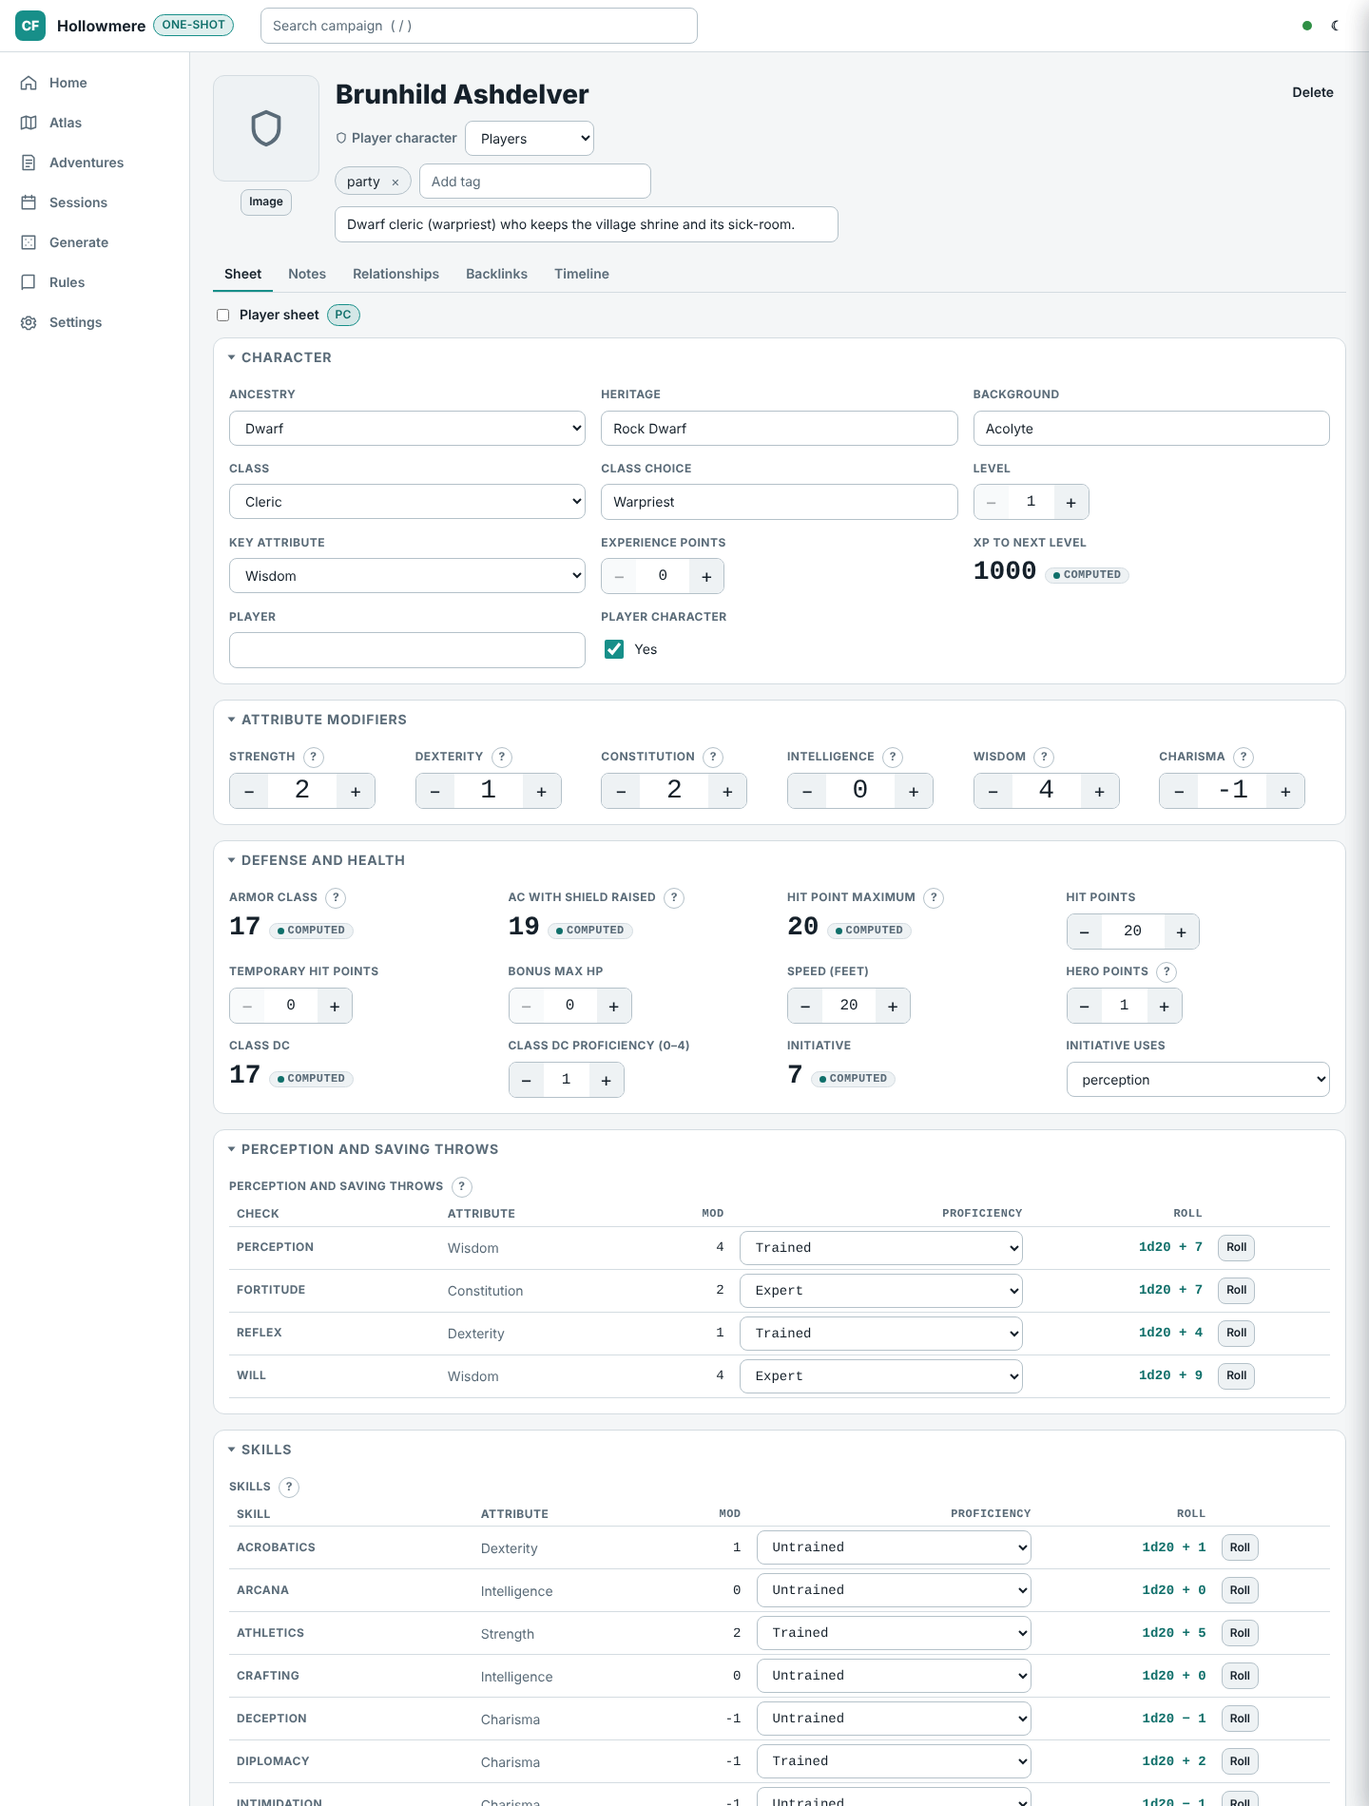
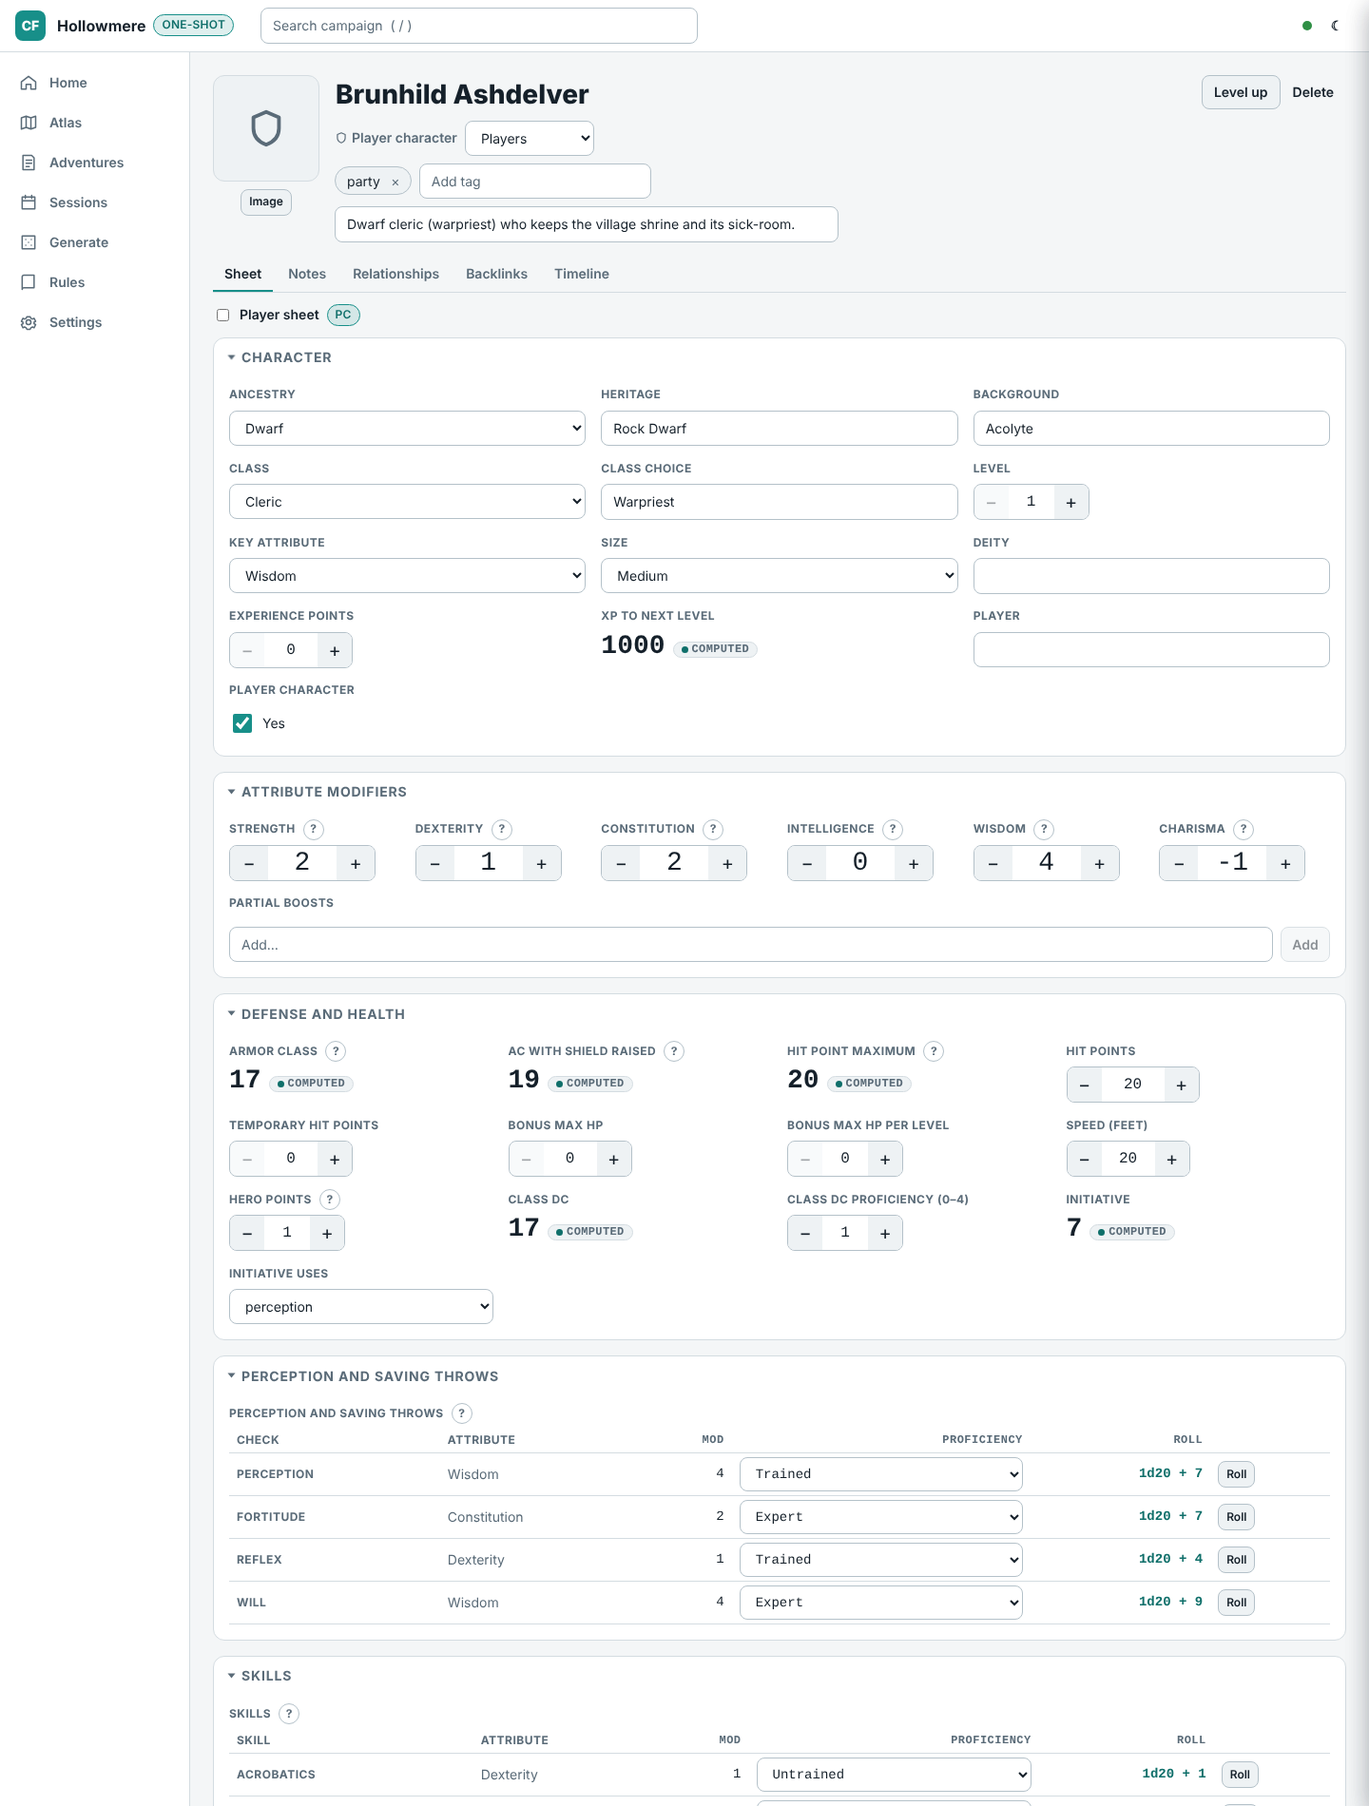
Publish the ORC character builder: demo draft, e2e, screenshot and feature page
Claude-Session: https://claude.ai/code/session_01PjoAoT19ZxbEizz2Vq94tE

diff --git a/apps/web/e2e/orc-builder.spec.ts b/apps/web/e2e/orc-builder.spec.ts
@@ -1,0 +1,164 @@
+/**
+ * The remaster (ORC) character builder end to end in the Hollowmere demo: the
+ * demo's half-built dwarf cleric is listed; a new human fighter is built from
+ * the Atlas PCs tab (heritage, ancestry boosts, background, key attribute,
+ * four free boosts, skills and languages, 1st-level feats, a shopping list,
+ * a name), created, read on the sheet (every number computed), then levelled
+ * up once (a class feat and a skill feat; Hit Points follow).
+ * `BUILDER_SHOTS=<dir>` keeps a screenshot of every step for review.
+ */
+import { mkdirSync } from "node:fs";
+import { expect, test, type Locator, type Page } from "@playwright/test";
+
+const SHOTS = process.env.BUILDER_SHOTS;
+async function shot(page: Page, name: string) {
+  if (!SHOTS) return;
+  mkdirSync(SHOTS, { recursive: true });
+  await page.screenshot({ path: `${SHOTS}/orc-${name}.png`, fullPage: true });
+}
+
+/** Pick an option of a choice (its card's or row's radio or checkbox). */
+async function pick(page: Page, path: string, id: string) {
+  const option = page.getByTestId(`opt:${path}:${id}`);
+  const input = option.locator("input");
+  if ((await input.count()) > 0) await input.check();
+  else await option.click();
+  await expect(option).toHaveClass(/is-on/);
+}
+
+/** Pick an option of a choice, filtering it by name first when it is a long list. */
+async function pickListed(page: Page, path: string, id: string, filter: string) {
+  const search = page.getByTestId(`choice:${path}`).locator("> .cb-list input[type=search]");
+  if ((await search.count()) > 0) await search.fill(filter);
+  await pick(page, path, id);
+}
+
+async function next(page: Page, stepId: string) {
+  await page.getByTestId("builder-next").click();
+  await expect(page.locator(".cb__main")).toHaveAttribute("data-step", stepId);
+}
+
+const step = (page: Page, id: string): Locator => page.getByTestId(`step-${id}`);
+
+test("build a remaster character in the Hollowmere demo, create it and level it up", async ({ page }) => {
+  test.setTimeout(180_000);
+  const errors: string[] = [];
+  page.on("pageerror", (e) => errors.push(e.message));
+  await page.setViewportSize({ width: 1440, height: 1000 });
+
+  await page.goto("/");
+  await page.getByTestId("load-demo-pf2e").click();
+  await expect(page).toHaveURL(/\/c\/[0-9A-Z]{26}\/home$/, { timeout: 60_000 });
+  const base = page.url().replace(/\/home$/, "");
+
+  // 1. the PCs tab lists the demo's unfinished dwarf cleric; build a new character
+  await page.getByRole("navigation", { name: "Campaign" }).getByRole("link", { name: "Atlas", exact: true }).click();
+  await page.getByRole("tab", { name: /^PCs/ }).click();
+  await expect(page.getByTestId("character-drafts")).toContainText("Maren Ashdown");
+  await page.getByTestId("build-character").click();
+  await expect(page.getByTestId("character-builder")).toBeVisible();
+  await expect(page.getByTestId("builder-title")).toHaveText("Build a character");
+
+  // 2. a Skilled Human (Medicine), the ancestry's free boosts to Strength and Constitution
+  await pick(page, "ancestry", "human");
+  await pick(page, "ancestry/heritage", "skilled-human");
+  await pick(page, "ancestry/heritage/any-skill", "medicine");
+  await pick(page, "ancestry/boosts", "standard");
+  await pick(page, "ancestry/boosts/free", "strength");
+  await pick(page, "ancestry/boosts/free", "constitution");
+  await expect(step(page, "ancestry")).toHaveAttribute("data-status", "ok");
+  await shot(page, "1-ancestry");
+
+  // 3. the Warrior: Strength (of Constitution or Strength) and a free Dexterity
+  await next(page, "background");
+  await pick(page, "background", "warrior");
+  await pick(page, "background/boost", "strength");
+  // the background cannot boost Strength twice
+  await expect(page.getByTestId("opt:background/free:strength")).toHaveClass(/is-off/);
+  await pick(page, "background/free", "dexterity");
+
+  // 4. a fighter: Strength key, Athletics
+  await next(page, "class");
+  await pick(page, "class", "fighter");
+  await pick(page, "class/key", "strength");
+  await pick(page, "class/skill-skills.0", "athletics");
+  await expect(page.getByTestId("preview-Perception")).toContainText("+5");
+  await shot(page, "2-class");
+
+  // 5. four free boosts; the side summary shows the modifiers
+  await next(page, "boosts");
+  for (const a of ["strength", "dexterity", "constitution", "wisdom"]) await pick(page, "boosts", a);
+  await expect(page.getByTestId("preview-Attributes")).toHaveText(/Str \+4 · Dex \+2 · Con \+2 · Int \+0 · Wis \+1 · Cha \+0/);
+  await expect(step(page, "boosts")).toHaveAttribute("data-status", "ok");
+  await shot(page, "3-boosts");
+
+  // 6. three class skills (3 + Int 0) and one language (the human's extra)
+  await next(page, "skills");
+  await expect(page.getByTestId("choice:skills/class").getByTestId("choice-count")).toHaveText("0 of 3");
+  for (const s of ["acrobatics", "crafting", "society"]) await pick(page, "skills/class", s);
+  await pickListed(page, "skills/languages", "Dwarven", "Dwarven");
+
+  // 7. level 1: a class feat and an ancestry feat (Natural Ambition brings another class feat)
+  await next(page, "level");
+  await pick(page, "level", "1");
+  await next(page, "levels");
+  await pick(page, "levels/lv.0/feat.0", "sudden-charge");
+  await pickListed(page, "levels/lv.0/feat.1", "natural-ambition", "Natural Ambition");
+  await pick(page, "levels/lv.0/feat.1/bonus-feat.0", "double-slice");
+  await expect(step(page, "levels")).toHaveAttribute("data-status", "ok");
+  await shot(page, "4-levels");
+
+  // 8. 15 gp: scale mail, a steel shield and a longsword
+  await next(page, "equipment");
+  await pick(page, "equipment", "currency");
+  await pickListed(page, "equipment/shop", "scale-mail", "Scale Mail");
+  await pickListed(page, "equipment/shop", "steel-shield", "Steel Shield");
+  await pickListed(page, "equipment/shop", "longsword", "Longsword");
+  await expect(page.getByTestId("preview-Armor Class")).toContainText("18");
+  await shot(page, "5-equipment");
+
+  // 9. a name (the deity is free text), then the review
+  await next(page, "details");
+  await page.getByTestId("field:core.name").fill("Odile Marchbank");
+  await page.getByTestId("field:deity").fill("The Lantern Keeper");
+  await next(page, "review");
+  await expect(page.getByTestId("review-ready")).toBeVisible();
+  await expect(page.getByTestId("grants:class")).toContainText("Fortitude expert from class Fighter");
+  await expect(page.getByTestId("grants:ancestry")).toContainText("+1 Strength from ancestry Human");
+  await shot(page, "6-review");
+  await page.getByTestId("builder-finish").click();
+
+  // 10. the sheet: modifiers and ranks stored, every total computed
+  await expect(page.getByTestId("entity-page")).toBeVisible();
+  await expect(page.getByTestId("entity-title")).toHaveValue("Odile Marchbank");
+  await expect(page.getByTestId("computed-hpMax")).toHaveText("20");
+  await expect(page.getByTestId("computed-ac")).toHaveText("18");
+  await expect(page.getByTestId("computed-classDc")).toHaveText("17");
+  await expect(page.getByTestId("pool-athletics")).toHaveText("1d20 + 7");
+  await expect(page.getByTestId("pool-perception")).toHaveText("1d20 + 6");
+  await shot(page, "7-sheet");
+
+  // 11. in the Atlas, a PC
+  await page.goto(`${base}/atlas?tab=pcs`);
+  const row = page.getByRole("tabpanel").getByRole("row").filter({ hasText: "Odile Marchbank" });
+  await expect(row).toContainText("fighter");
+
+  // 12. level up once: a class feat and a skill feat at 2nd level; 12 more Hit Points
+  await row.getByRole("link", { name: "Odile Marchbank" }).click();
+  await page.getByTestId("level-up").click();
+  await expect(page.getByTestId("builder-title")).toHaveText("Level up: Odile Marchbank");
+  await expect(page.getByTestId("opt:class:fighter")).toHaveClass(/is-on/);
+  await next(page, "new-level");
+  await pick(page, "new-level/lv.0/feat.0", "exacting-strike");
+  await pickListed(page, "new-level/lv.0/feat.1", "battle-medicine", "Battle Medicine");
+  await next(page, "review");
+  await expect(page.getByTestId("grants:new-level")).toContainText("Battle Medicine");
+  await shot(page, "8-level-up");
+  await page.getByTestId("builder-finish").click();
+  await expect(page.getByTestId("entity-page")).toBeVisible();
+  await expect(page.getByRole("spinbutton", { name: "Level", exact: true })).toHaveValue("2");
+  await expect(page.getByTestId("computed-hpMax")).toHaveText("32");
+  await expect(page.getByTestId("pool-athletics")).toHaveText("1d20 + 8");
+
+  expect(errors).toEqual([]);
+});

diff --git a/tools/seed-campaign/src/pf2e.ts b/tools/seed-campaign/src/pf2e.ts
@@ -735,6 +735,7 @@ export async function buildPf2eDemo(opts: BuildPf2eDemoOptions = {}): Promise<Pf
       `- **Four degrees of success**: roll a skill from a sheet with a DC; beat it by 10 for a critical success, and watch a natural 20 or 1 move the result.`,
       `- **Table mode**: start session 1. The first scene is ${ref(thieves)}; roll initiative on the Trackers tab.`,
       `- **Generators**: ${ref(innkeeper)} was rolled with the NPC generator; try the encounter builder under Generate.`,
+      "- **Character builder**: Maren Ashdown, a dwarf cleric, is half-built on the Atlas PCs tab; resume her at the attribute boosts, or build a new character.",
       "",
       "Original adventure; the rules content is ORC-licensed (see Settings for the ORC notice and attribution).",
     ].join("\n"),
@@ -745,6 +746,37 @@ export async function buildPf2eDemo(opts: BuildPf2eDemoOptions = {}): Promise<Pf
     welcome: "**Hollowmere** is a one-shot for four level 1 heroes: someone is stealing lamp oil from a lakeside village, and the trail leads underground. Expect a mystery, a strange bargain and a dark place full of teeth.",
     tone: "Bright adventure with a few scares.\n\n- **Lines** (never in the game): \n- **Veils** (happen off screen): \n- **Safety tools**: an X-card on the table and a check-in at the break.",
   });
+
+  // -- a character half-way through the builder (the app's "Unfinished characters"; resume it from the PCs tab) --
+  const builder = game.characterBuilders?.[0];
+  if (builder) {
+    const at = new Date().toISOString();
+    const draftId = newId();
+    const draft = {
+      id: draftId,
+      builder: builder.id,
+      mode: "create" as const,
+      created: at,
+      updated: at,
+      seed: `${seed}/draft`,
+      step: "boosts",
+      visited: ["ancestry", "background", "class", "boosts"],
+      picks: {
+        ancestry: ["dwarf"],
+        "ancestry/heritage": ["rock-dwarf"],
+        "ancestry/boosts": ["standard"],
+        "ancestry/boosts/free": ["strength"],
+        background: ["acolyte"],
+        "background/boost": ["wisdom"],
+        "background/free": ["constitution"],
+        class: ["cleric"],
+        "class/select.0": ["warpriest"],
+        boosts: ["wisdom", "strength", "dexterity"],
+      },
+      values: { details: { "core.name": "Maren Ashdown" } },
+    };
+    store.updateMeta({ settings: { ...store.meta().settings, characterDrafts: { [draftId]: draft } } });
+  }
 
   const maps = store.toJSON();
   const resolve = nameResolver(store);

diff --git a/tools/seed-campaign/test/pf2e.test.ts b/tools/seed-campaign/test/pf2e.test.ts
@@ -153,6 +153,21 @@ describe("buildPf2eDemo", async () => {
     expect(Object.keys(s.checklist ?? {})).toContain("pf2e-orc.prep.encounters");
   });
 
+  it("has a character half-way through the builder, at the attribute boosts, that resolves with no errors", async () => {
+    const { resolveCharacterBuilder } = await import("@campaign-forge/module-sdk");
+    const drafts = Object.values(maps.meta.settings.characterDrafts as Record<string, Parameters<typeof resolveCharacterBuilder>[2] & { step: string }>);
+    expect(drafts).toHaveLength(1);
+    const draft = drafts[0]!;
+    expect(draft.step).toBe("boosts");
+    const res = resolveCharacterBuilder(game, game.characterBuilders![0]!, draft);
+    expect(res.issues.filter((i) => i.level === "error")).toEqual([]);
+    expect(res.complete).toBe(false);
+    expect(res.name).toBe("Maren Ashdown");
+    // dwarf Con and Wis, free Str, Cha flaw; acolyte Wis and Con; cleric Wis; three of four free boosts so far
+    expect(res.fields.attributes).toEqual({ strength: 2, dexterity: 1, constitution: 2, intelligence: 0, wisdom: 4, charisma: -1 });
+    expect(res.fields).toMatchObject({ ancestry: "dwarf", heritage: "Rock Dwarf", background: "Acolyte", class: "cleric", subclass: "Warpriest" });
+  });
+
   it("produces entities whose fields validate against their module schema", () => {
     const problems: string[] = [];
     for (const e of entities) {

diff --git a/apps/web/screenshots/readme.spec.ts b/apps/web/screenshots/readme.spec.ts
@@ -981,3 +981,18 @@ async function rasterSvg(browser: import("@playwright/test").Browser, svg: strin
     await context.close();
   }
 }
+
+test("orc-builder", async ({ page }) => {
+  await page.setViewportSize({ width: 1440, height: 1100 });
+  await loadDemo(page, "pf2e");
+  // the demo's half-built dwarf cleric, resumed from the PCs tab at the attribute boosts (no reload, so ids stay put)
+  await page.getByRole("navigation", { name: "Campaign" }).getByRole("link", { name: "Atlas", exact: true }).click();
+  await page.getByRole("tab", { name: /^PCs/ }).click();
+  const draft = page.getByTestId("character-drafts").getByRole("listitem").filter({ hasText: "Maren Ashdown" });
+  await draft.getByTestId("draft-resume").click();
+  await expect(page.locator(".cb__main")).toHaveAttribute("data-step", "boosts");
+  await expect(page.getByTestId("opt:boosts:wisdom")).toHaveClass(/is-on/);
+  await expect(page.getByTestId("preview-Attributes")).toContainText("Wis +4");
+  await page.evaluate(() => window.scrollTo(0, 0));
+  await shot(page, "orc-builder");
+});

diff --git a/apps/web/src/features/reference/ReferencePage.tsx b/apps/web/src/features/reference/ReferencePage.tsx
@@ -32,7 +32,8 @@ export function ReferencePage() {
   );
 }
 
-const ITEM_META = new Set(["id", "name", "page", "cite", "mode", "summary", "source", "edition"]);
+/** Item keys the browser does not show as data (`builder` is structured data for a character builder). */
+const ITEM_META = new Set(["id", "name", "page", "cite", "mode", "summary", "source", "edition", "builder"]);
 
 /** Columns of a reference list: its own `columns`, else the first five data keys. */
 export function listColumns(list: ReferenceList | undefined): string[] {

diff --git a/docs/features/orc.md b/docs/features/orc.md
@@ -4,13 +4,14 @@
 
 The `pf2e-orc` module (`packages/module-pf2e-orc`), a built-in JSON data pack of the ORC-licensed core rules, compatible with Pathfinder Second Edition (Remaster), with an optional built-in supplement for nine more remaster books.
 
-Demo: *Hollowmere*, a one-shot with four level 1 characters, kobold oil thieves and a xulgath den.
+Demo: *Hollowmere*, a one-shot with four level 1 characters, kobold oil thieves and a xulgath den, and a fifth character half-way through the builder.
 
 ## What it adds
 
 - **The core books.** The ORC-licensed content of Player Core, Player Core 2, GM Core and Monster Core and none of the setting's names: 490 Monster Core stat blocks and 32 hazards as presets; ancestries, heritages, backgrounds, classes, 1,814 feats, 663 spells and 1,243 items as reference lists; every condition and action as a rule card cited by section.
 - **Character sheets.** Perception, saves and skills from proficiency ranks (level + 2/4/6/8), class DC, AC, Hit Points, spell DC and Bulk, all derived.
 - **Four degrees of success.** DC ± 10, with natural 20 and 1 shifting one step; fortune, misfortune and the multiple attack penalty in the roll panel.
+- **Character builder.** *Build a character* (Atlas PCs tab, or *New*) walks through ancestry (heritage, versatile heritages included; Hit Points, size, speed, senses, languages and traits; the ancestry's boosts and flaws, or the alternative two free boosts), background (one of its two boosts and a free one, trained skill and Lore, skill feat), class (key attribute, initial proficiencies, 1st-level features and the class's choices such as instinct, doctrine, muse or school), four free boosts, trained skills and languages from Intelligence, a starting level from 1 to 20 with every level's ancestry, class, skill and general feats (prerequisites checked where the data allows, otherwise confirmed by the GM; archetype feats in class feat slots on request), skill increases up to the rank the level allows, boosts at 5th, 10th, 15th and 20th (partial boosts above +4) and the class features gained with their proficiency increases, then starting wealth by level with an optional shopping list (armor, shield and Strikes go on the sheet), and details (the deity is free text). The side summary shows the attribute modifiers, Hit Points, AC, Perception, saves, class DC and spell DC as they follow from the picks; the review lists every grant with its source and what is left to do by hand. *Level up* on a sheet adds the next level. The supplement's ancestries and classes work the same way, with their source badge.
 - **Encounter builder.** Spends GM Core's XP budgets on Monster Core creatures for the party's level and size.
 - **At the table.** Trackers for initiative, Hit Points, dying/wounded/doomed, Hero and Focus Points and valued conditions.
 - **Combat.** The table's combat panel rolls Strikes from Monster Core's numbers (every creature's attack modifier, damage dice and types, persistent damage, agile and other traits; the supplement's creatures too) and from a character's Strikes table, with the multiple attack penalty, four degrees against AC (a critical hit doubles the damage) and basic saves (none, half, full or double). Immunities, weaknesses and resistances apply in the rules' order, by damage type, group (physical, all) or material and trait (cold iron, holy), with their exceptions; immunities to conditions are kept apart. At 0 Hit Points a character is dying 1 (2 on a critical hit) plus its wounded value; healed, it loses dying and gains wounded.
@@ -36,6 +37,10 @@ Demo: *Hollowmere*, a one-shot with four level 1 characters, kobold oil thieves 
 **Encounter builder**: a severe encounter for four level 3 characters, GM Core's XP budget spent on Monster Core creatures by level.
 
 ![Encounter builder](../screenshots/pf2e-encounter.png)
+
+**Character builder**: the demo's half-built dwarf cleric at the attribute boosts: three of four free boosts picked, the stepper with each step's picks, and the side summary with the attribute modifiers, Hit Points, AC, Perception, saves, class DC and spell DC that follow from them.
+
+![Remaster character builder, attribute boosts with the side summary](../screenshots/orc-builder.png)
 
 **Built-in supplement**: *Remaster ORC books* switched on under Game modules; Hollowmere's ancestries list gains eight from Howl of the Wild, Guns & Gears and Battlecry!, each with its source badge and citation.
 
